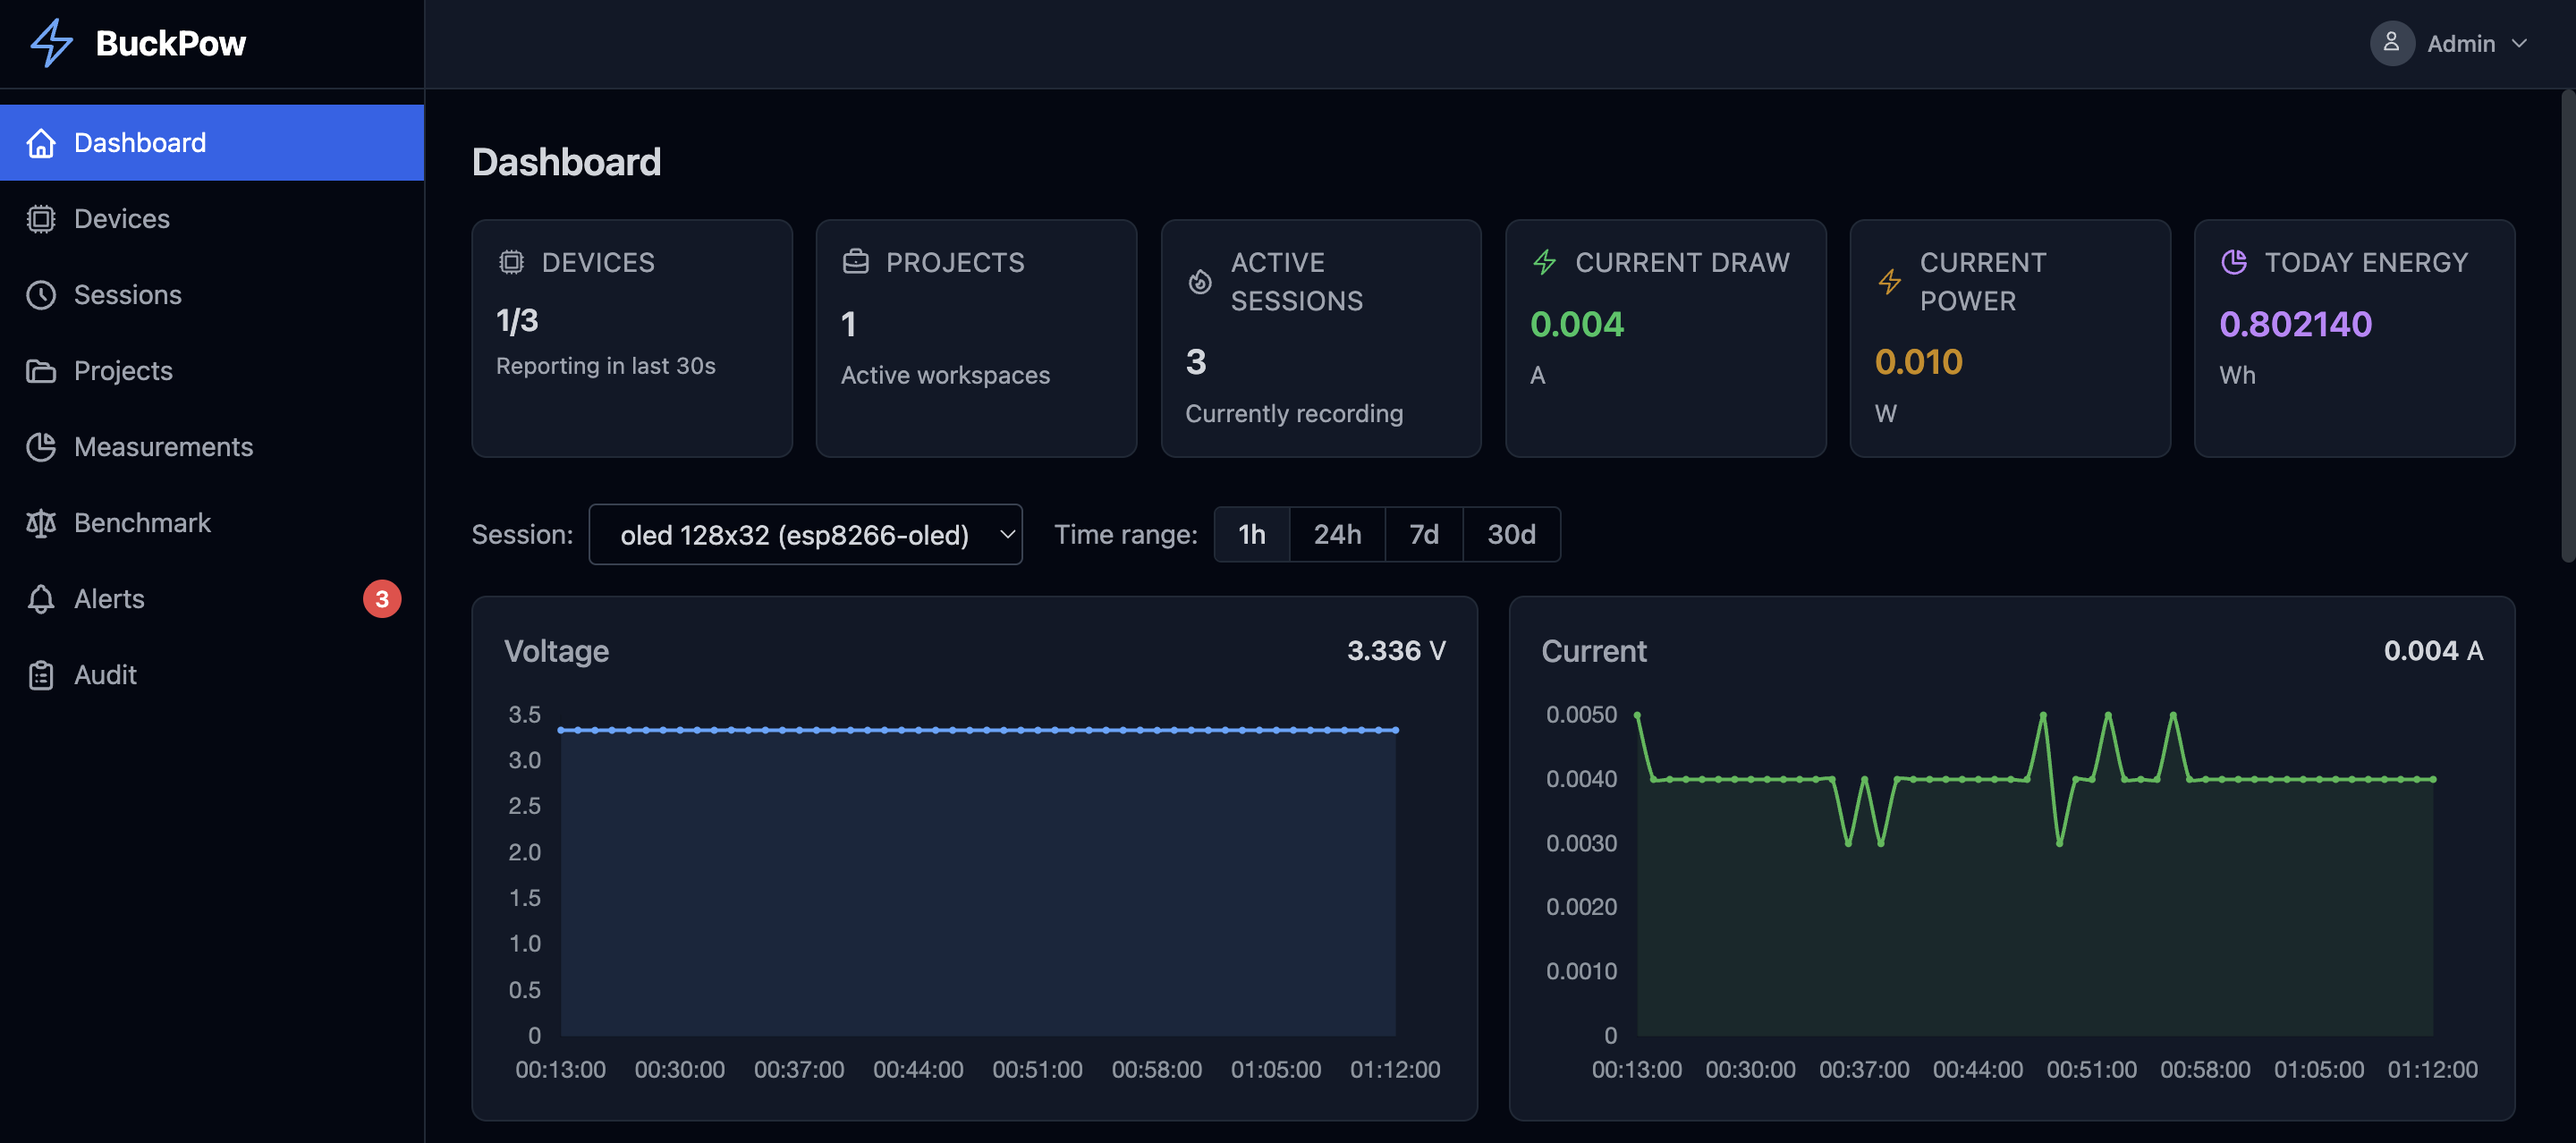
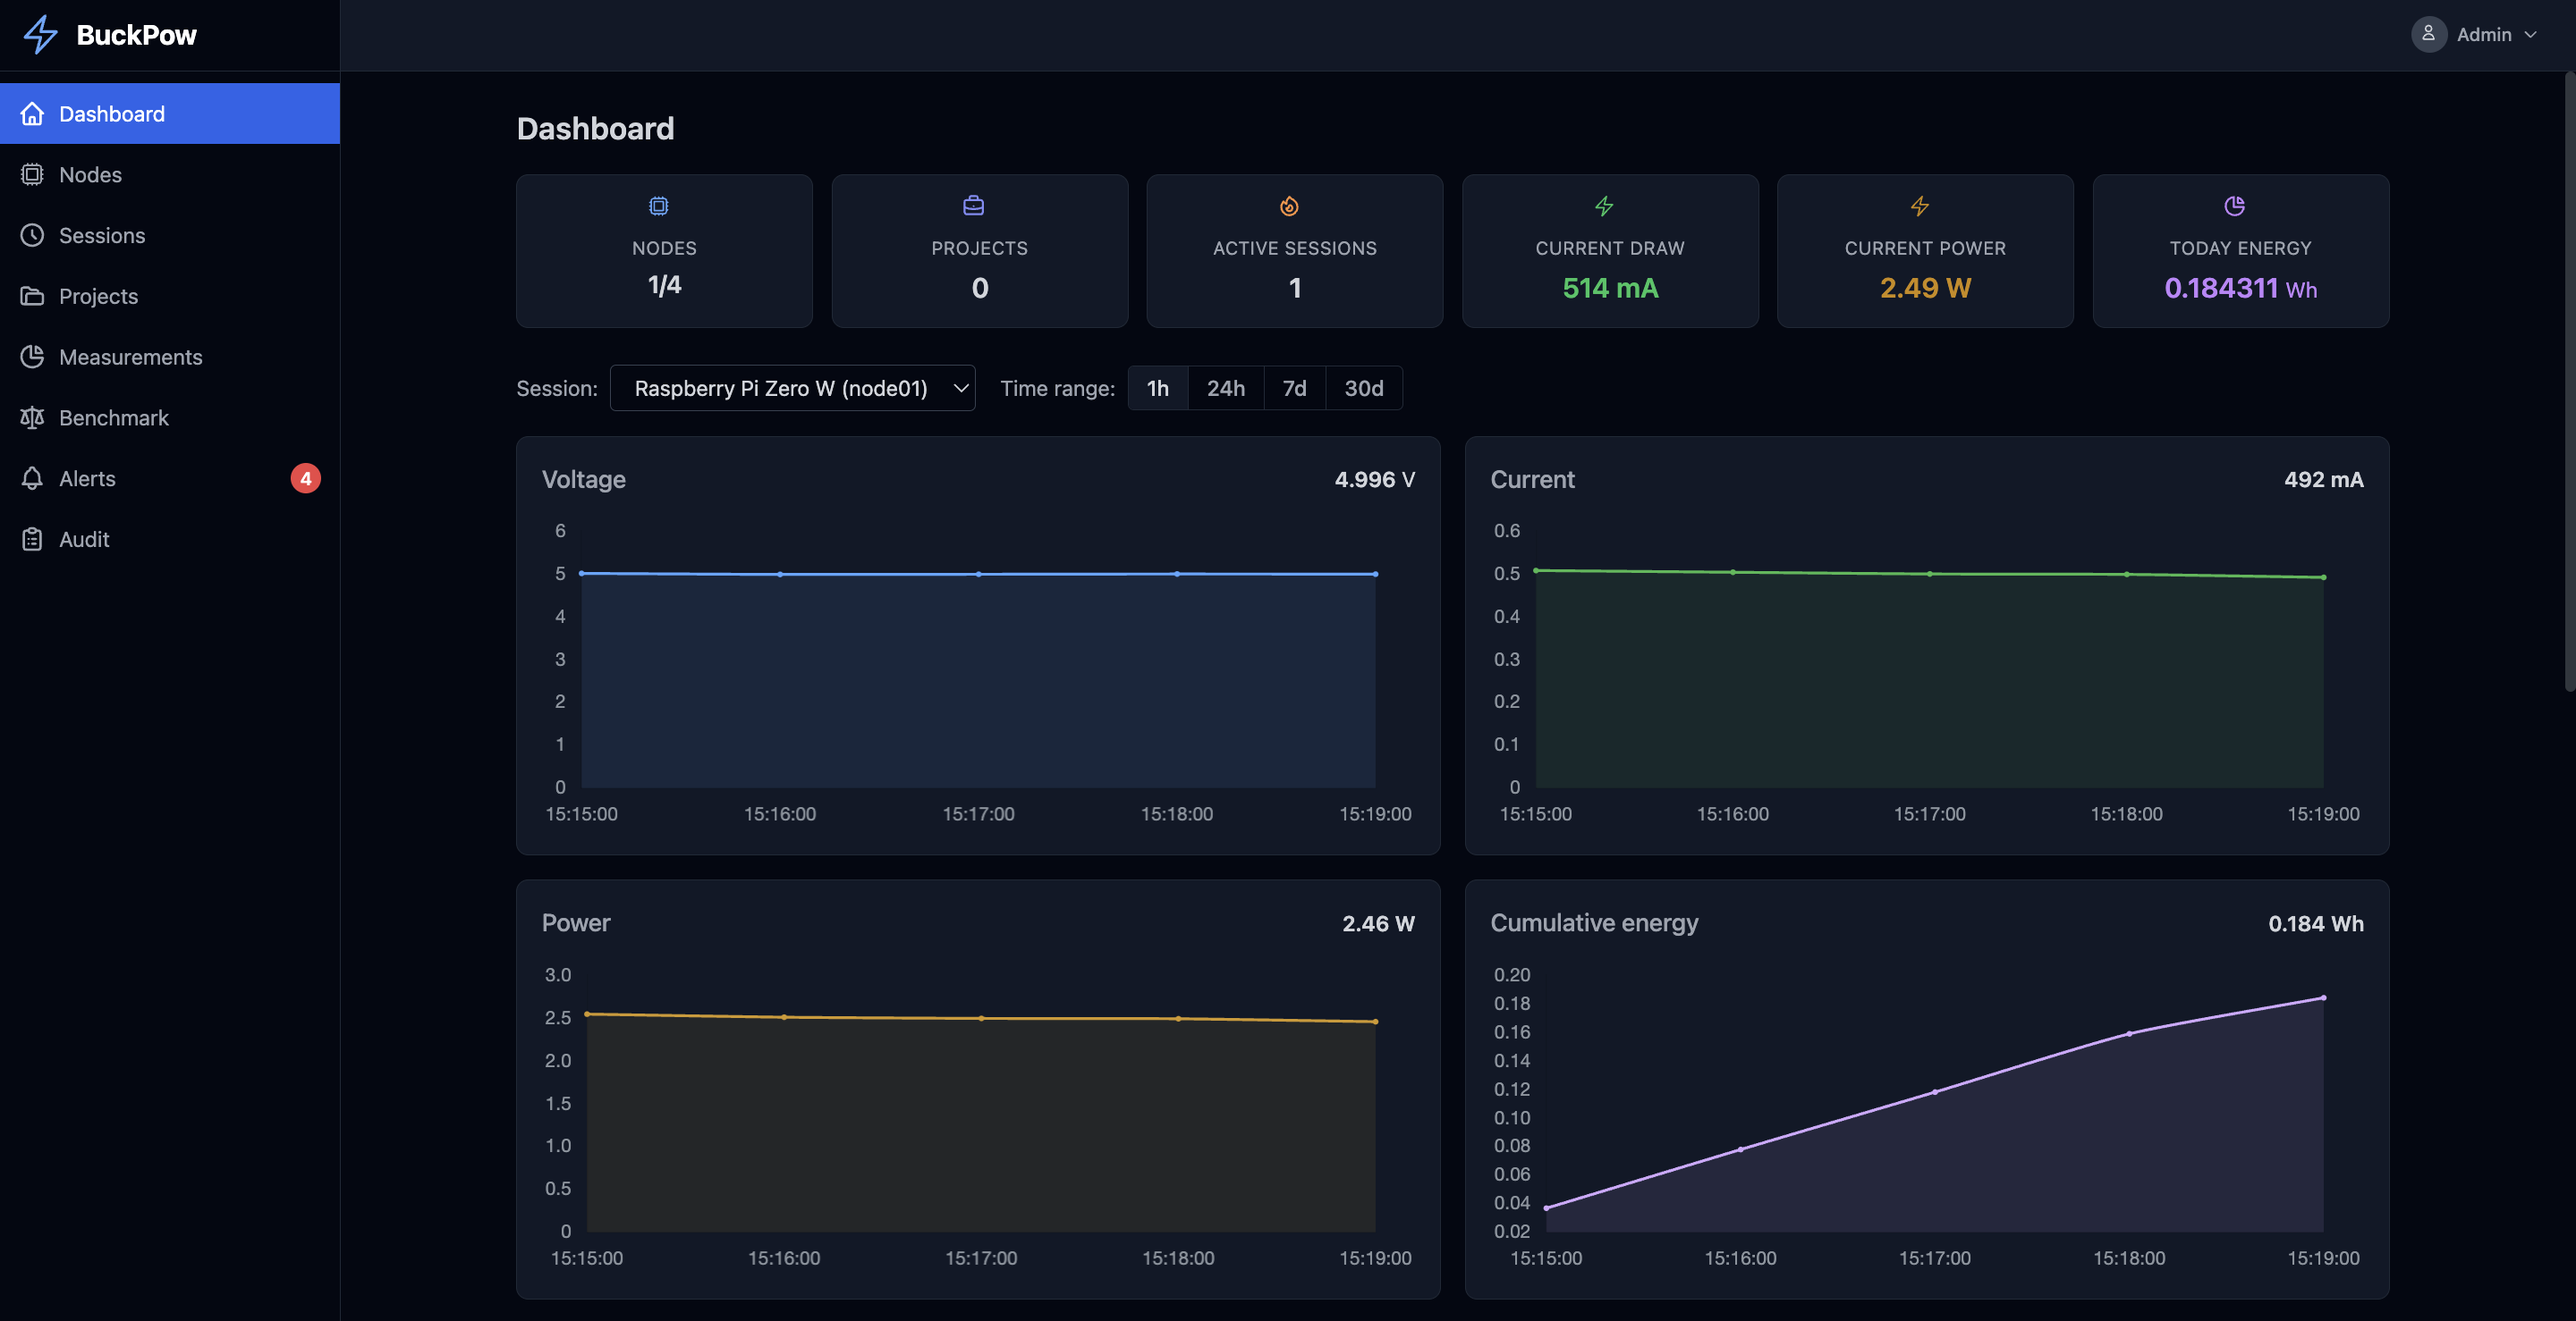
docs: rename devices to nodes in user-facing docs, update project structure
- Rename 'Devices' to 'Nodes' in nav, page references, and user-facing text
  across mkdocs.yml, index.md, quick-start.md, dashboard.md, troubleshooting.md,
  connect-node.md, and api.md (API endpoints/DB schema kept as-is)
- Update directory structure in architecture.md, backend.md, and contributing.md
  to match actual project layout (add models.py, version.py, dependencies.py,
  template_helpers.py; fix templates/ location; add root-level config files)

diff --git a/docs/developer-guide/architecture.md b/docs/developer-guide/architecture.md
@@ -56,9 +56,11 @@ buckpow/
 │   ├── main.py              # Entrypoint: `fastapi run src/main.py`
 │   ├── config.py            # Settings (pydantic-settings)
 │   ├── database.py          # SQLAlchemy engine, session
+│   ├── models.py            # Shared Pydantic / ORM bases
 │   ├── router.py            # Router aggregation + health
 │   ├── dependencies.py      # FastAPI dependencies (re-exports)
 │   ├── template_helpers.py  # Jinja2 rendering helpers
+│   ├── version.py           # App version
 │   ├── auth/                # Auth domain (models, schemas, router, service, deps)
 │   ├── devices/             # Device domain (models, schemas, router, service)
 │   ├── sessions/            # Session domain (models, schemas, router, service)
@@ -69,24 +71,29 @@ buckpow/
 │   ├── benchmark/           # Benchmark domain (models, schemas, router, service)
 │   ├── settings/            # Settings domain (schemas, router, service)
 │   ├── dashboard/           # Dashboard pages, API, service
-│   ├── middleware/           # ASGI middleware
+│   ├── middleware/           # ASGI middleware (rate limiter)
 │   ├── utils/               # Utility functions
-│   ├── static/              # CSS, JS
-│   └── templates/           # Jinja2 templates
+│   └── static/              # CSS, JS
+├── templates/               # Jinja2 templates
 ├── firmware/                # Arduino sketches
 ├── migrations/              # Alembic migrations
 ├── tests/                   # Pytest suite (by domain)
 ├── scripts/                 # Utility scripts
-├── mkdocs.yml               # Documentation config
-├── docs/                    # Documentation source
-├── Dockerfile               # Container build
-├── docker-compose.yml       # Production stack
-├── alembic.ini              # Migration config
+├── tasks/                   # Task management
+├── nginx/                   # Nginx config for Docker
+├── docs/                    # Documentation source (MkDocs)
 ├── requirements/            # Split dependencies (base/dev/prod)
-├── requirements/base.txt    # Core dependencies
-├── requirements/dev.txt     # Dev/test dependencies
-├── requirements/prod.txt    # Production dependencies
-└── .env.example             # Environment template
+├── pyproject.toml           # Project config, ruff, pytest
+├── mkdocs.yml               # MkDocs config
+├── alembic.ini              # Alembic config
+├── Dockerfile               # Container build
+├── docker-compose.yml       # Production stack (PostgreSQL + Nginx)
+├── docker-compose.cloud.yml # Cloud deployment stack
+├── run.py                   # Alternative entrypoint
+├── .pre-commit-config.yaml  # Pre-commit hooks
+├── .env.example             # Environment template
+├── .github/                 # CI/CD workflows
+└── LICENSE                  # MIT License
 ```
 
 ## Request Flow

diff --git a/docs/developer-guide/contributing.md b/docs/developer-guide/contributing.md
@@ -59,7 +59,11 @@ buckpow/
 │   ├── main.py        # Entrypoint
 │   ├── config.py      # Settings
 │   ├── database.py    # SQLAlchemy engine
+│   ├── models.py      # Shared Pydantic / ORM bases
 │   ├── router.py      # Router aggregation
+│   ├── dependencies.py # FastAPI dependencies (re-exports)
+│   ├── template_helpers.py # Jinja2 rendering helpers
+│   ├── version.py     # App version
 │   ├── auth/          # Auth domain
 │   ├── devices/       # Device domain
 │   ├── sessions/      # Session domain
@@ -76,9 +80,22 @@ buckpow/
 ├── templates/         # Jinja2 templates (project root)
 ├── firmware/          # Arduino sketches
 ├── migrations/        # Alembic migrations
+├── tests/             # Test suite (by domain)
 ├── scripts/           # Helper scripts
-├── requirements/      # Split dependencies
-└── tests/             # Test suite (by domain)
+├── tasks/             # Task management
+├── nginx/             # Nginx config for Docker
+├── requirements/      # Split dependencies (base/dev/prod)
+├── pyproject.toml     # Project config, ruff, pytest
+├── mkdocs.yml         # MkDocs config
+├── alembic.ini        # Alembic config
+├── Dockerfile         # Container build
+├── docker-compose.yml # Production stack (PostgreSQL + Nginx)
+├── docker-compose.cloud.yml # Cloud deployment stack
+├── run.py             # Alternative entrypoint
+├── .pre-commit-config.yaml # Pre-commit hooks
+├── .env.example       # Environment template
+├── .github/           # CI/CD workflows
+└── LICENSE            # MIT License
 ```
 
 ## Development Workflow

diff --git a/docs/user-guide/dashboard.md b/docs/user-guide/dashboard.md
@@ -33,6 +33,8 @@ graph TD
 
 ## Summary Cards
 
+![Summary Cards](../assets/images/summary-cards.png){ width="800" }
+
 The top section shows key metrics:
 
 | Card | Description |
@@ -73,7 +75,7 @@ Click a time range button to switch. The active button is highlighted.
 
 ## Live Charts
 
-![Live Charts](../assets/images/dashboard.png){ width="800" }
+![Live Charts](../assets/images/live-charts.png){ width="800" }
 
 Four real-time line charts display measurement data:
 
@@ -105,7 +107,7 @@ Each chart shows the latest value in the header. Charts update every 5 seconds w
 
 ## Statistics Cards
 
-![Statistics Cards](../assets/images/dashboard.png){ width="800" }
+![Statistics Cards](../assets/images/statistics-cards.png){ width="800" }
 
 Below the charts, four stat cards show aggregated metrics:
 
@@ -143,7 +145,7 @@ Below the charts, four stat cards show aggregated metrics:
 
 ## Energy Breakdown
 
-![Energy Breakdown](../assets/images/dashboard.png){ width="800" }
+![Energy Breakdown](../assets/images/energy-breakdown.png){ width="800" }
 
 Four tables show energy consumption over different time periods:
 
@@ -178,7 +180,7 @@ The sidebar provides access to all dashboard pages:
 | Page | Description |
 |------|-------------|
 | [Dashboard](#) | Real-time overview (current page) |
-| [Devices](devices.md) | Manage devices and API keys |
+| [Nodes](devices.md) | Manage nodes and API keys |
 | [Sessions](first-measurement.md) | Experiment session management |
 | [Measurements](export-data.md) | Paginated readings with date filter |
 | [Projects](devices.md) | Project organization |

diff --git a/docs/index.md b/docs/index.md
@@ -108,8 +108,6 @@ flowchart LR
     DB --> EXPORT
 ```
 
-<!-- TODO: Replace with actual architecture diagram -->
-
 Measurement nodes collect readings from edge devices and send them to the BuckPow API. The API stores time-series measurements, manages experiment sessions and benchmarks, and serves an observability dashboard for visualization and analysis.
 
 ## Supported Hardware
@@ -176,7 +174,7 @@ Measurement nodes collect readings from edge devices and send them to the BuckPo
 | Page | Description |
 |------|-------------|
 | [Dashboard](user-guide/dashboard.md) | Real-time charts and summary cards |
-| [Devices](user-guide/devices.md) | Device management and API keys |
+| [Nodes](user-guide/devices.md) | Node management and API keys |
 | [Sessions](user-guide/first-measurement.md) | Experiment session management |
 | [Measurements](user-guide/export-data.md) | Paginated readings with date filter |
 | [Projects](user-guide/devices.md) | Project organization |
@@ -215,7 +213,7 @@ See the [API Reference](developer-guide/api.md) for the full endpoint list.
 - [**User Guide**](user-guide/installation.md)
     ---
 
-    End-user documentation for the dashboard, devices, sessions, and more.
+    End-user documentation for the dashboard, nodes, sessions, and more.
 
 - [**Developer Guide**](developer-guide/architecture.md)
     ---

diff --git a/docs/developer-guide/backend.md b/docs/developer-guide/backend.md
@@ -12,9 +12,11 @@ src/
 ├── main.py                  # Entrypoint: `fastapi run src/main.py`
 ├── config.py                # Settings via pydantic-settings
 ├── database.py              # SQLAlchemy engine, SessionLocal, Base
+├── models.py                # Shared Pydantic / ORM bases
 ├── router.py                # API router aggregator + health endpoint
 ├── dependencies.py          # Canonical re-export of all FastAPI dependencies
 ├── template_helpers.py      # Jinja2 rendering helpers
+├── version.py               # App version
 ├── auth/                    # Auth domain (models, schemas, router, service, deps)
 ├── devices/                 # Device domain (models, schemas, router, service)
 ├── sessions/                # Session domain (models, schemas, router, service)
@@ -27,8 +29,7 @@ src/
 ├── dashboard/               # Dashboard (page routes per domain, API endpoints, service)
 ├── middleware/               # ASGI middleware (rate limiter)
 ├── utils/                   # Utility functions
-├── static/                  # CSS, JS
-└── middleware/               # ASGI middleware (rate limiter)
+└── static/                  # CSS, JS
 ```
 
 Project root also contains:

diff --git a/docs/user-guide/devices.md b/docs/user-guide/devices.md
@@ -6,7 +6,7 @@ Manage your measurement nodes, API keys, and alert thresholds.
 
 ## Overview
 
-<!-- TODO: Replace with actual nodes list screenshot -->
+![Nodes Index](../assets/images/nodes-index.png){ width="800" }
 
 The Nodes page lists all registered nodes with their status, configuration, and API keys. Nodes can be created manually or registered automatically when they send their first measurement.
 
@@ -41,7 +41,7 @@ Nodes are paginated at 10 per page. Use the page navigation at the bottom of the
 
 ## Creating a Node
 
-<!-- TODO: Replace with actual create node form screenshot -->
+![Creating a Node](../assets/images/nodes-add.png){ width="800" }
 
 ### Manual Creation
 
@@ -90,7 +90,7 @@ Each node has a unique 64-character hex API key used for authentication.
 
 ### Viewing the Full API Key
 
-<!-- TODO: Replace with actual API key modal screenshot -->
+![API Key](../assets/images/nodes-api-key.png){ width="800" }
 
 1. Click **Edit** on the node row
 2. Scroll down to the **API Key** section

diff --git a/docs/quick-start.md b/docs/quick-start.md
@@ -11,14 +11,14 @@ Choose your setup method:
 
     Production-ready stack with PostgreSQL and Nginx.
 
-    [Docker Setup :arrow_right:](quick-start/docker.md)
+    [Docker Setup](quick-start/docker.md)
 
 - **Local**
     ---
 
     Development with SQLite, no container required.
 
-    [Local Setup :arrow_right:](quick-start/local.md)
+    [Local Setup](quick-start/local.md)
 
 </div>
 
@@ -37,6 +37,6 @@ Choose your setup method:
 |-------|-------------|
 | [Installation](user-guide/installation.md) | Full configuration options and environment variables |
 | [Dashboard](user-guide/dashboard.md) | Navigate the real-time dashboard |
-| [Devices](user-guide/devices.md) | Manage devices and API keys |
+| [Nodes](user-guide/devices.md) | Manage nodes and API keys |
 | [First Measurement](user-guide/first-measurement.md) | Record your first experiment session |
 | [Benchmark](user-guide/benchmark.md) | Compare sessions side-by-side |

diff --git a/docs/developer-guide/api.md b/docs/developer-guide/api.md
@@ -13,7 +13,7 @@ BuckPow exposes a RESTful API under `/api/v1/`. The API supports:
 - **API key authentication** for device endpoints
 - **Pagination** for list endpoints
 
-<!-- TODO: Replace with Swagger UI screenshot -->
+![Swagger UI](../assets/images/api-swagger.png){ width="800" }
 
 ## Base URL
 
@@ -40,9 +40,9 @@ curl http://localhost:8000/api/v1/devices \
   -H 'Authorization: Bearer <jwt-token>'
 ```
 
-### API Key (Device)
+### API Key (Node)
 
-Obtain the key from the device detail page, then:
+Obtain the key from the node detail page, then:
 
 ```bash
 curl -X POST http://localhost:8000/api/v1/measurements \
@@ -266,9 +266,9 @@ GET /api/v1/chart
 
 ---
 
-## Devices
+## Nodes
 
-### List Devices
+### List Nodes
 
 ```http
 GET /api/v1/devices

diff --git a/docs/user-guide/connect-node.md b/docs/user-guide/connect-node.md
@@ -125,10 +125,10 @@ const bool  USE_HTTPS  = false;
 
 ### Finding the API Key
 
-The API key is shown masked in the device list. To get the full key:
+The API key is shown masked in the node list. To get the full key:
 
-1. Go to **Devices** in the dashboard
-2. Click the **Key** button on your device
+1. Go to **Nodes** in the dashboard
+2. Click the **Key** button on your node
 3. Copy the full key from the modal
 
 Or via API:
@@ -207,7 +207,7 @@ const char* NODE_ID = "esp32-lab-02";
 const char* NODE_ID = "esp8266-office-01";
 ```
 
-Each device gets its own API key from the BuckPow dashboard.
+Each node gets its own API key from the BuckPow dashboard.
 
 ## Changing Server Address
 

diff --git a/docs/user-guide/troubleshooting.md b/docs/user-guide/troubleshooting.md
@@ -69,10 +69,10 @@ Thresholds can be set at two levels:
 
 ### Device-Level Thresholds
 
-Set per-device thresholds on the device edit page:
+Set per-node thresholds on the node edit page:
 
-1. Navigate to **Devices**
-2. Click **Edit** on the device
+1. Navigate to **Nodes**
+2. Click **Edit** on the node
 3. Set threshold values:
 
 | Field | Unit | Default | Description |
@@ -183,7 +183,7 @@ curl -X POST http://localhost:8000/api/v1/alerts \
 
 **Symptoms:**
 
-- Device doesn't appear in the Devices list
+- Node doesn't appear in the Nodes list
 - No measurements are being recorded
 
 **Solutions:**

diff --git a/docs/quick-start/docker.md b/docs/quick-start/docker.md
@@ -56,7 +56,7 @@ docker compose ps
 
 Navigate to `http://localhost` (port 80) or `http://localhost:8000` (direct).
 
-<!-- TODO: Replace with actual login screenshot -->
+![Login Page](../assets/images/login-page.png){ width="800" }
 
 Log in with the admin credentials from your `.env`.
 

diff --git a/docs/user-guide/installation.md b/docs/user-guide/installation.md
@@ -6,8 +6,6 @@ Full installation guide for BuckPow with all configuration options.
 
 ## System Requirements
 
-<!-- TODO: Replace with system requirements diagram -->
-
 | Component | Minimum | Recommended |
 |-----------|---------|-------------|
 | CPU | 1 core | 2+ cores |
